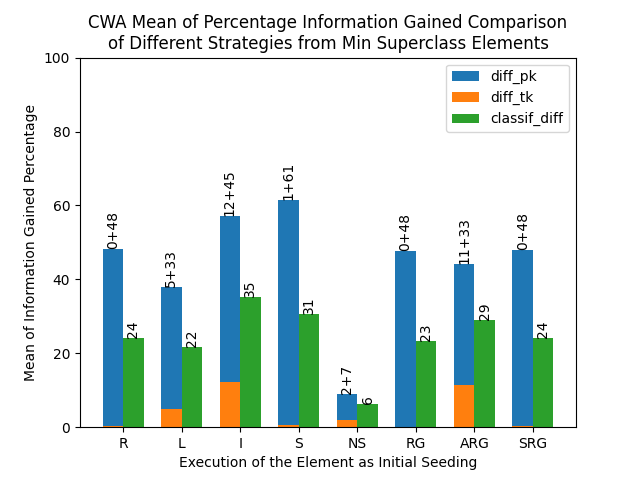
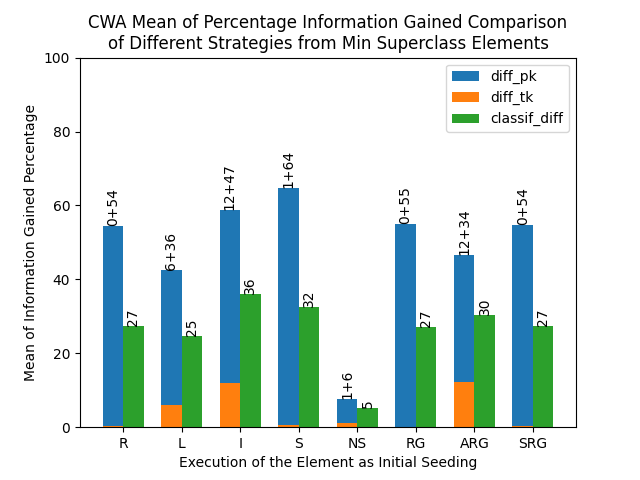
fixed the mean calculation, now we do not calculate the mean of the model at all since we only work on the taxonomy level

diff --git a/src/FileReader.py b/src/FileReader.py
@@ -11,8 +11,10 @@ directory_path = os.path.realpath(r"C:\Users\ttuga\Desktop\Research_Project\Soft
 
 # TODO LATER MAKE SURE TO GET THE COMPLETENESS AS AN ARGUMENT
 #  OR PUT THE WHOLE THING IN A FOR LOOP TO RUN THEM BOTH AT THE SAME TIME
+
 # can change whether to run CWA or OWA from this variable
-check_complete = False
+# False for OWA, True for CWA
+check_complete = True
 
 # true for only the combined graph, false for only the regular graph, none for both
 # TODO MAKE THE PART OF BEING ABLE TO RUN BOTH AT THE SAME TIME
@@ -110,7 +112,7 @@ def read_taxonomy(path, number_of_taxonomies, model_name, strategy, sub_super_st
             model_classif_diffs.append(taxonomy_classif_diff_mean)
         except statistics.StatisticsError:
             continue
-    return statistics.mean(model_diff_pks), statistics.mean(model_diff_tks), statistics.mean(model_classif_diffs)
+    return model_diff_pks, model_diff_tks, model_classif_diffs
 
 
 def read_file(file_path):
@@ -131,9 +133,9 @@ def read_directory():
             # pick one model
             strategy_statistics = dict()
             for strategy in STRATEGIES:
-                graph_diff_pks = []
-                graph_diff_tks = []
-                graph_classif_diffs = []
+                catalog_diff_pks = []
+                catalog_diff_tks = []
+                catalog_classif_diffs = []
                 for model in models:
                     # if not (model == 'abel2015petroleum-system'):
                     #     continue
@@ -150,12 +152,14 @@ def read_directory():
                         # trying to read the necessary files
                         try:
                             # adds the means of the models into the graph list for the said attribute
-                            model_diff_pk_mean, model_diff_tk_mean, model_classif_diff_mean = (
+                            model_diff_pk, model_diff_tk, model_classif_diff = (
                                 read_taxonomy(path, number_of_taxonomies, model, strategy, sub_super_strategy,
                                               min_max_strategy))
-                            graph_diff_pks.append(model_diff_pk_mean)
-                            graph_diff_tks.append(model_diff_tk_mean)
-                            graph_classif_diffs.append(model_classif_diff_mean)
+                            # adding all the taxonomy means from that model to the list of means for the entire catalog
+                            for i in range(len(model_diff_pk)):
+                                catalog_diff_pks.append(model_diff_pk[i])
+                                catalog_diff_tks.append(model_diff_tk[i])
+                                catalog_classif_diffs.append(model_classif_diff[i])
                         # except KeyError:
                         #     # TODO: THIS IS THE MODEL EXCEPTION LIST, DONT FORGET TO REMOVE/DOCUMENT IT
                         #     # skips a model that has inconsistency in its data and statistics files in one of its taxonomies
@@ -167,8 +171,8 @@ def read_directory():
                     else:
                         continue
                 try:
-                    strategy_statistics[strategy] = [statistics.mean(graph_diff_pks), statistics.mean(graph_diff_tks),
-                                                     statistics.mean(graph_classif_diffs)]
+                    strategy_statistics[strategy] = [statistics.mean(catalog_diff_pks), statistics.mean(catalog_diff_tks),
+                                                     statistics.mean(catalog_classif_diffs)]
                 except statistics.StatisticsError:
                     # if we get this, it is because the model doesn't have a single class in any of its taxonomies
                     # that conform to the strategy we are using, thus we skip the model
